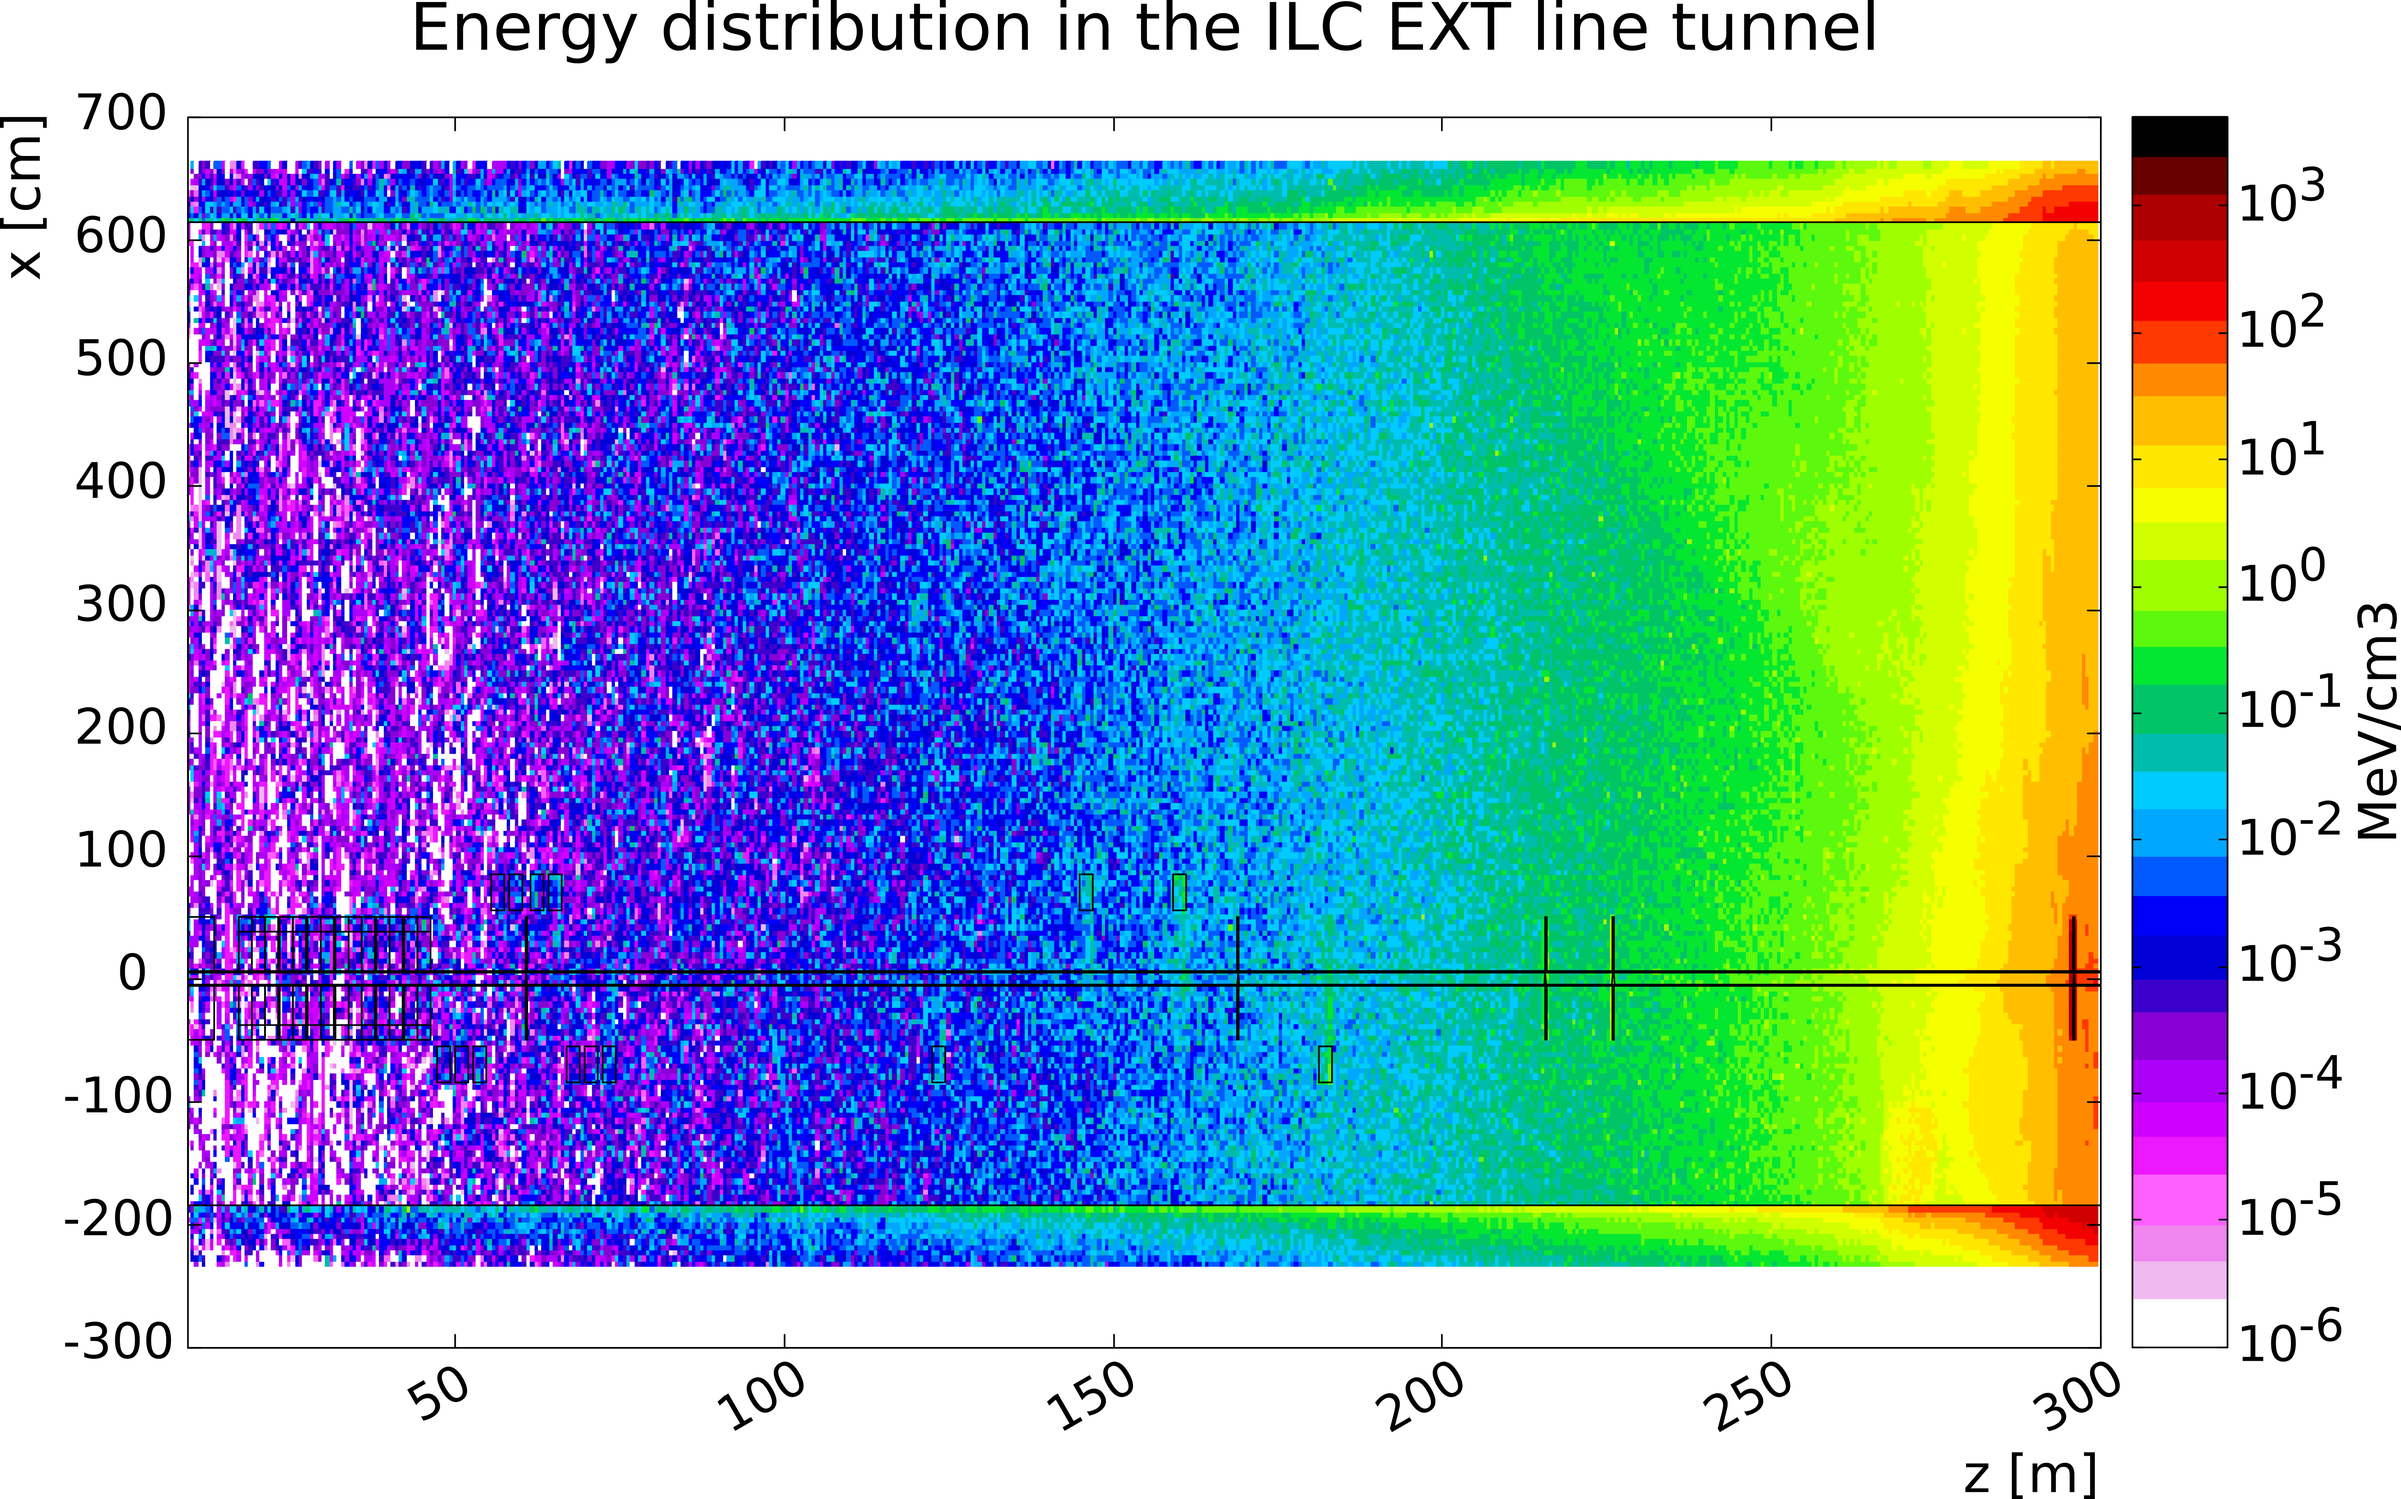
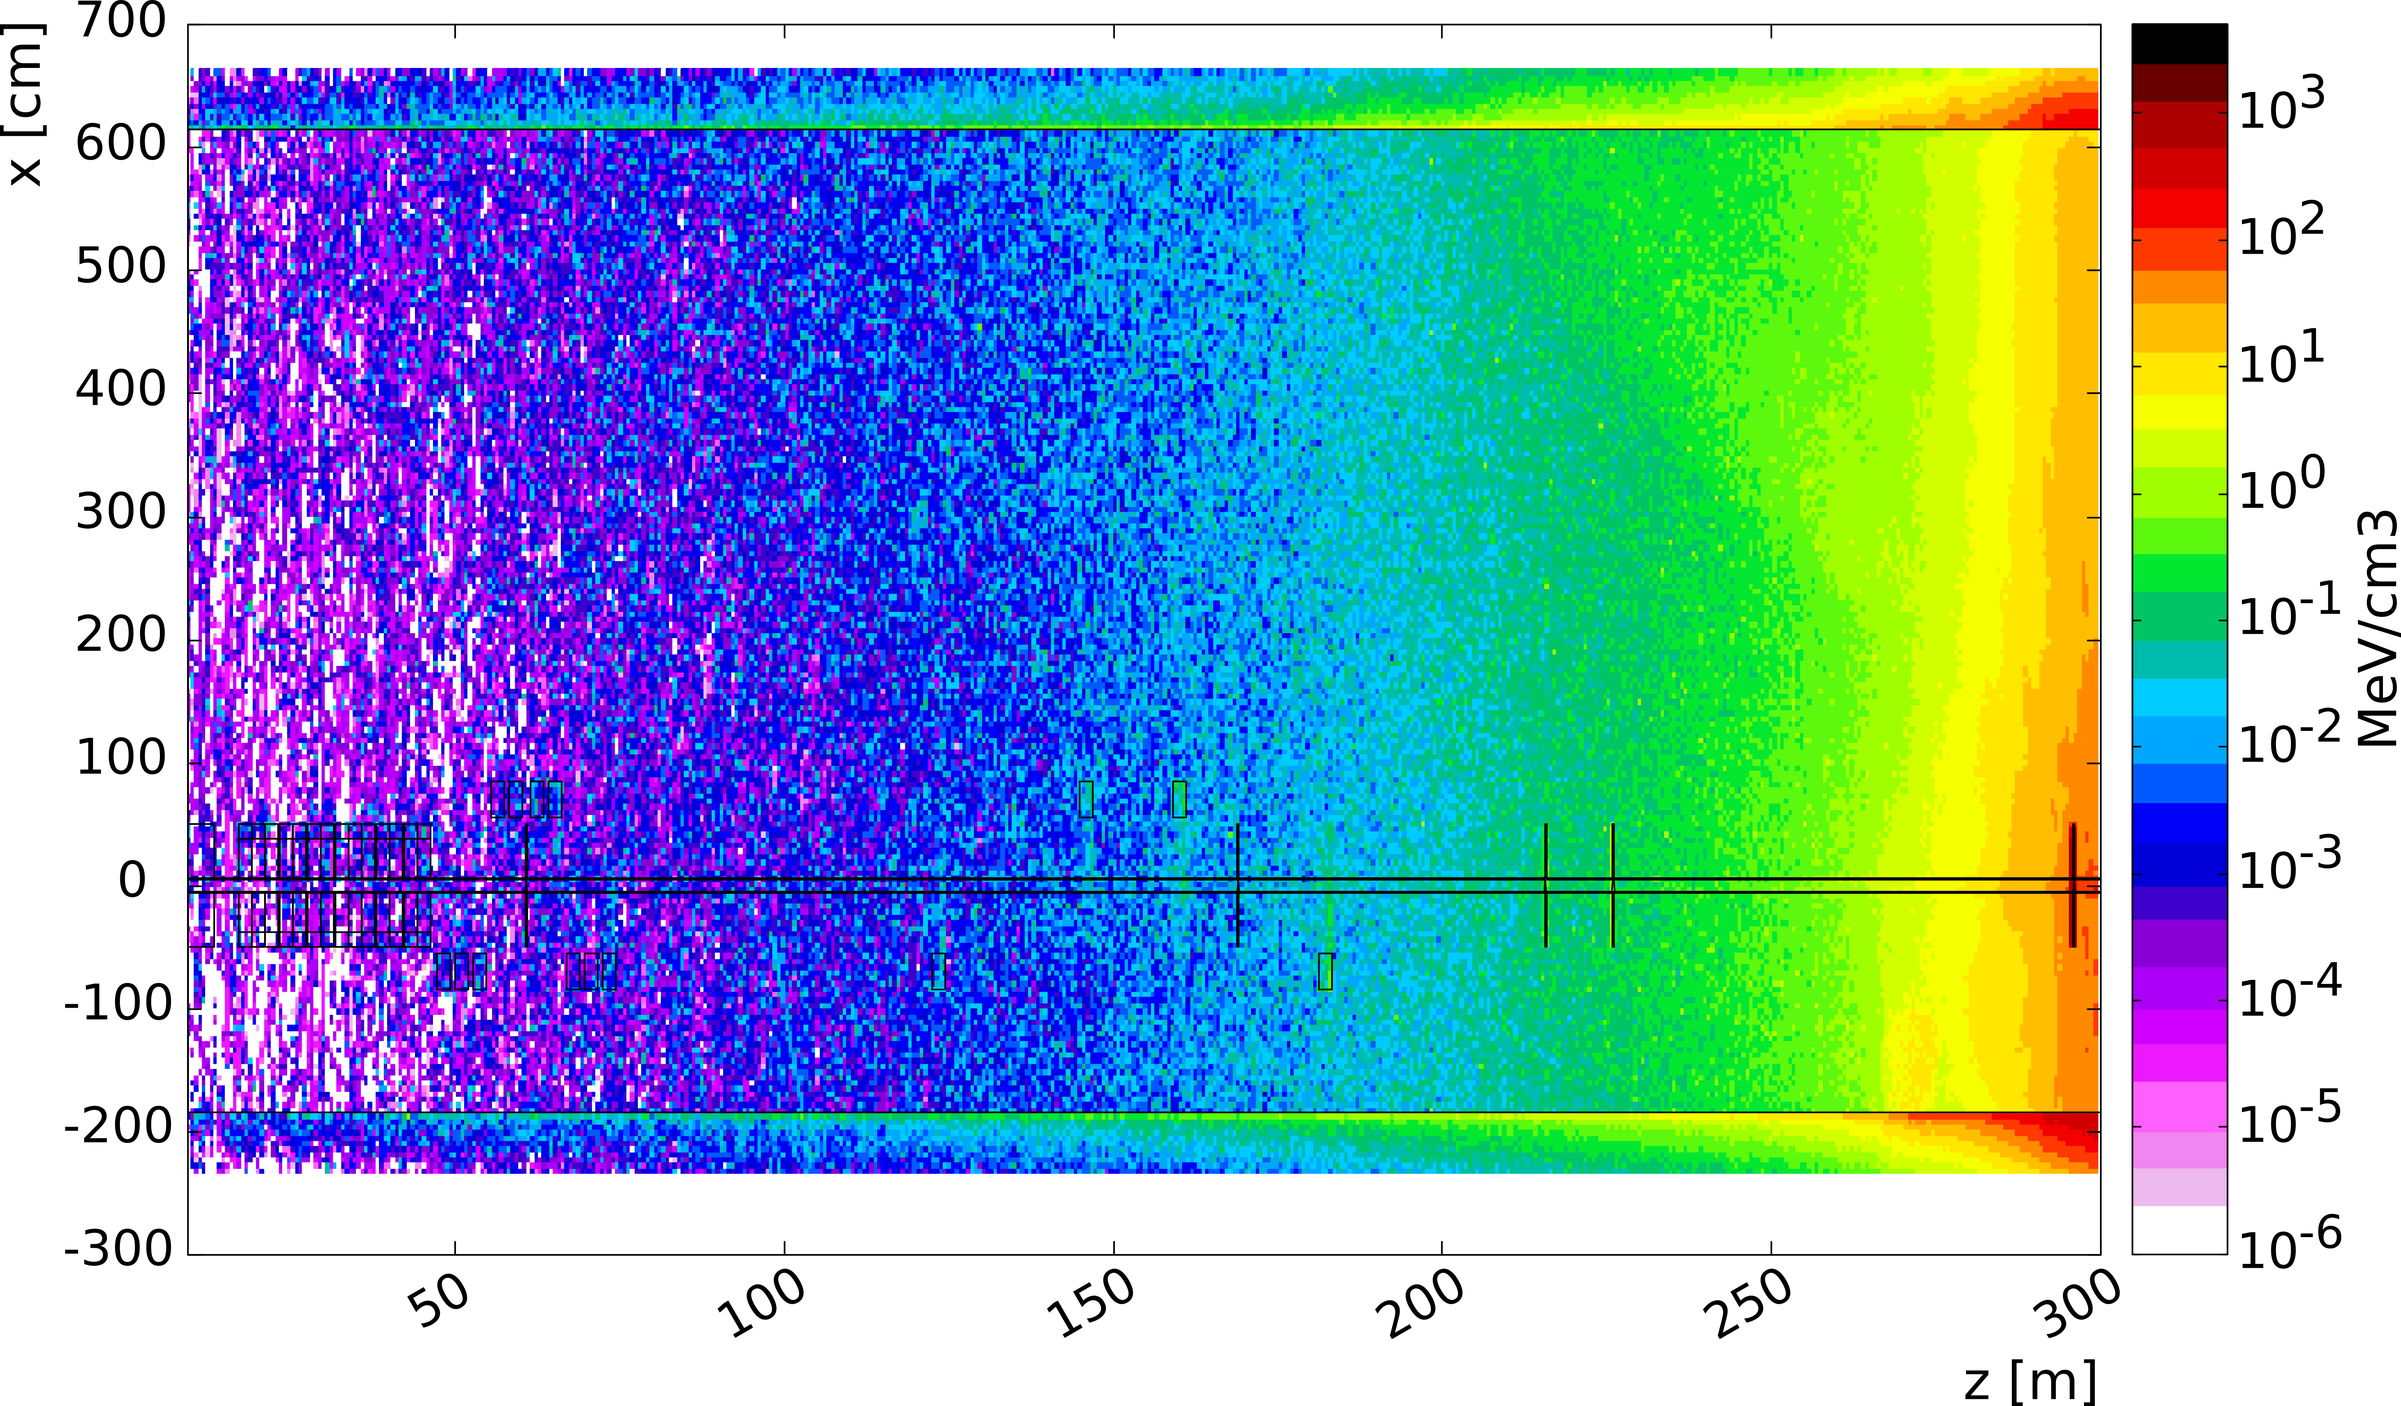
Added text about neutron energy spectrum. Added digures of spatial distribution of neutrons and energy in ext tunnel

diff --git a/thesis/Chapters/BeamDumps.tex b/thesis/Chapters/BeamDumps.tex
@@ -189,9 +189,9 @@ The reason for that is the larger material density in \designtwo in form of the 
    \\Figures (c) and (d) show the maximum values of the energy deposition as a projection on the z axis.}
    \label{fig:BeamDumps:Energy}
 \end{figure}
-\\Subfigures (c) and (d) show the projection of maximum values of the deposited energy onto the z axis.
+\\Subfigures~\ref{fig:BeamDumps:Energy}(c) and (d) show the projection of maximum values of the deposited energy onto the z axis.
 The overall distribution of the deposited energy over z is smooth, with a maximum shortly before the vessel center.
-Nevertheless, the distribution has several sharp peaks which can be identified to be at locations with large material density. \todo{English?!}
+Nevertheless, the distribution has several sharp peaks which can be identified at locations with large material density.
 For \designone, the first sharp peak at z\,$\approx$\,\SI{-230}{\centi\meter} corresponds to the front side of the vortex tube, the back side of the same tube is also visible through the second peak at z\,$\approx$\,\SI{110}{\centi\meter}.
 The third peak at z\,$\approx$\,\SI{220}{\centi\meter} is caused by the beam hitting the first copper plates in the end of the vessel.
 \\Accordingly, the sharp peaks in Figure~\ref{fig:BeamDumps:Energy} (d) for \designtwo also correspond to locations with a higher material density.
@@ -293,7 +293,9 @@ The color scale indicates the radioactivity in \si{\becquerel\per\centi\meter\cu
  The primary electron beam undergoes the electromagnetic particle showers in the beam dump, which is desired in order to absorb the beam power.
  The produced secondary particles from the particle showers, however, interact with the beam dump material and the water via ionization and photonuclear processes.
  The products from these processes are neutrons in connection with the radioactive nuclei discussed in Section~\ref{BeamDumps:sim_surrounding:Dose}.
- Due to this way of production, the neutrons can be found under every solid angle, hence also in the backward direction. \todo{English?!}
+ Due to the way the neutrons are produced, they can be found under every solid angle, hence also in the backward direction.
+ Since the neutron flux outside the vessel does not show a significant difference between \designone and \designtwo, the following results are shown for \designone only.
+ They are however valid for both designs.
 \begin{figure}[!h]
  \centering
   \begin{subfigure}[b]{0.49\textwidth}
@@ -312,14 +314,21 @@ The color scale indicates the radioactivity in \si{\becquerel\per\centi\meter\cu
    The color scale shows the dose in number of particles per \si{\centi\meter\cubed} per bunch.}
    \label{fig:BeamDumps:Neutrons}
 \end{figure} 
-By adding an imaginary scoring plane upstream of the beam dump vessel as indicated in Figure~\ref{fig:BeamDumps:NeutronScoring} (a), the neutrons escaping the beam dump in the direction of the extraction line can be scored.
+\\By adding an imaginary scoring plane upstream of the beam dump vessel as indicated in Figure~\ref{fig:BeamDumps:NeutronScoring} (a), the neutrons escaping the beam dump in the direction of the extraction line can be scored.
 \fluka then recorded the kinetic energy of the neutrons crossing this scoring plane under various angles to the z-axis.
 The energy spectra can be seen in Figure~\ref{fig:BeamDumps:NeutronScoring} (b).
 The spectra range from about \SI{1}{\meV} to \SI{500}{\MeV}, and indicate the number of neutrons under different angles. 
 The graph ``0 - 45 degrees'' shows the energy spectrum for all neutrons crossing the boundary in the direction of the extraction line (the negative z-direction) under an angle of up to \SI{45}{\degree}.
 The energy spectrum of the neutrons that cross the boundary under an angle between \SI{45}{\degree} and \SI{90}{\degree} to the negative z-direction is also displayed in Figure~\ref{fig:BeamDumps:NeutronScoring} (b).
 The combination of both spectra is shown by the red graph, indicated with ``all angles'' in the figure legend.
-\\
+The first peak in the meV range represents the thermal neutron energy peak.
+At the eV range, resonance peaks from resonant elastic scattering of neutrons with a compound nucleus are visible.
+These resonance peaks are element specific, so that the peaks indicate which materials the neutrons have interacted with. \todo{Point to literature}
+%at about \SI{230}{\eV} corresponds to the resonance of copper.
+Finally in the MeV range, the so-called evaporation or fission peak of fast neutrons is visible.
+\\All these neutrons point in the direction of the extraction line and hence in the direction of the interaction region and the detectors.
+As can be seen in Section~\ref{BeamDumps:sim_EXT}, the neutrons do not reach the detectors freely.
+Due to shielding walls and extraction line components, the number of neutrons is decimated.
 \begin{figure}[hbp]
 \centering
   \begin{subfigure}[b]{0.4\textwidth}
@@ -336,12 +345,13 @@ The combination of both spectra is shown by the red graph, indicated with ``all 
 \caption[Neutron scoring plane in the main beam dump hall]{Scoring neutrons escaping the beam dump vessel in the direction of the extraction line.
 \\Figure (a) shows the position of the scoring plane in \fluka in the xz-view of the beam dump hall.
 At the boundary of the scoring plane, the neutron energy spectrum is recorded.
-\\Figure (b) shows the energy spectra of the neutrons which are produced in the beam dump Design 1, and which cross the scoring plane indicated in Figure (a).
+\\Figure (b) shows the energy spectra of the neutrons, which are produced in the beam dump \designone from one ILC beam bunch, and which cross the scoring plane indicated in Figure (a).
 The different graphs stand for different crossing angles to the z-axis.
 The red graph (``all angles'') is the combination of the other two graphs (``0 - 45 degrees'' and ``45 - 90 degrees'').}
 \label{fig:BeamDumps:NeutronScoring}
 \end{figure}
 
+\clearpage
 \section{Simulation studies of extraction line}
 \label{BeamDumps:sim_EXT}
 
@@ -389,14 +399,39 @@ The magnets are simulated without their respective magnetic field maps, since th
    \label{fig:BeamDumps:EXT}
 \end{figure} 
 
-Simulation of neutrons through EXT
+The neutrons, which reach the extraction line passed the beam dump shielding walls, are tracked through the extraction line geometry described above.
+The resulting neutron density in the tunnel is shown in Figure~\ref{fig:BeamDumps:NeutronEnergy_dis_EXT} (a) in a view of the xz-plane.
+Close to the beam dump hall, at around z = \SI{300}{\meter}, the neutron density reaches over \num{e4} neutrons per \si{\centi\meter\cubed}.
+This density sinks to about one neutron per \si{\centi\meter\cubed} close to the interaction region at z = \SI{10}{\meter}.
+The beam line components shield the neutron flux such that the density between about \SI{-200}{\centi\meter} and \SI{200}{\centi\meter} in x is reduced to about \SI{0.1}{\per\centi\meter\cubed}.
+\\The resulting deposited energy is shown in the xz-plane in Figure~\ref{fig:BeamDumps:NeutronEnergy_dis_EXT} (b).
+Due to the high density of neutrons close to the beam hall, the energy density reaches here up to 
+\num{e2} - \SI{e3}{\MeV\per\centi\meter\cubed}.
+Also according to the neutron density distribution, the deposited energy close to the interaction region drops to about \num{0.1} - \SI{1}{\keV\per\centi\meter\cubed}.
+\begin{figure}[hbp]
+\centering
+  \begin{subfigure}[b]{\textwidth}
+   \centering
+\includegraphics[width=0.99\textwidth]{Figures/BeamDump/Neutron_dis_in_full_EXT_tunnel.png}
+\caption{Neutron density distribution}
+   \end{subfigure}\\
+    \begin{subfigure}[b]{\textwidth}
+   \centering
+\includegraphics[width=0.99\textwidth]{Figures/BeamDump/Energy_dis_in_full_EXT_tunnel.png}
+\caption{Deposited energy distribution}
+\end{subfigure}
+\caption[Spatial distribution of the neutron density and the deposited energy in the ILC extraction line tunnel]{
+Figure (a) shows the spatial distribution of the neutrons in the ILC extraction line tunnel simulated with \fluka.
+The color scale shows the number of neutrons per unit area, normalized to the rate resulting from one ILC beam bunch dumped in the water vessel.
+\\Figure (b) shows the spatial distribution of the deposited energy in the ILC extraction line tunnel simulated with \fluka.
+The color scale shows the deposited energy in \si{\GeV} per unit area, normalized to the results from one ILC beam bunch dumped in the water vessel.}
+\label{fig:BeamDumps:NeutronEnergy_dis_EXT}
+\end{figure}
+
 
 \section{SiD Occupancy study from beam dump neutrons}
 \label{BeamDumps:SiDocc}
 
-\begin{itemize}
- \item Occupancy study of neutrons in SiD - not done yet
-\end{itemize}
 
 \section{Alternative beam dump designs}
 A gas dump (TESLA layout) requires a dump length of at least \SI{1}{\kilo\meter}.
